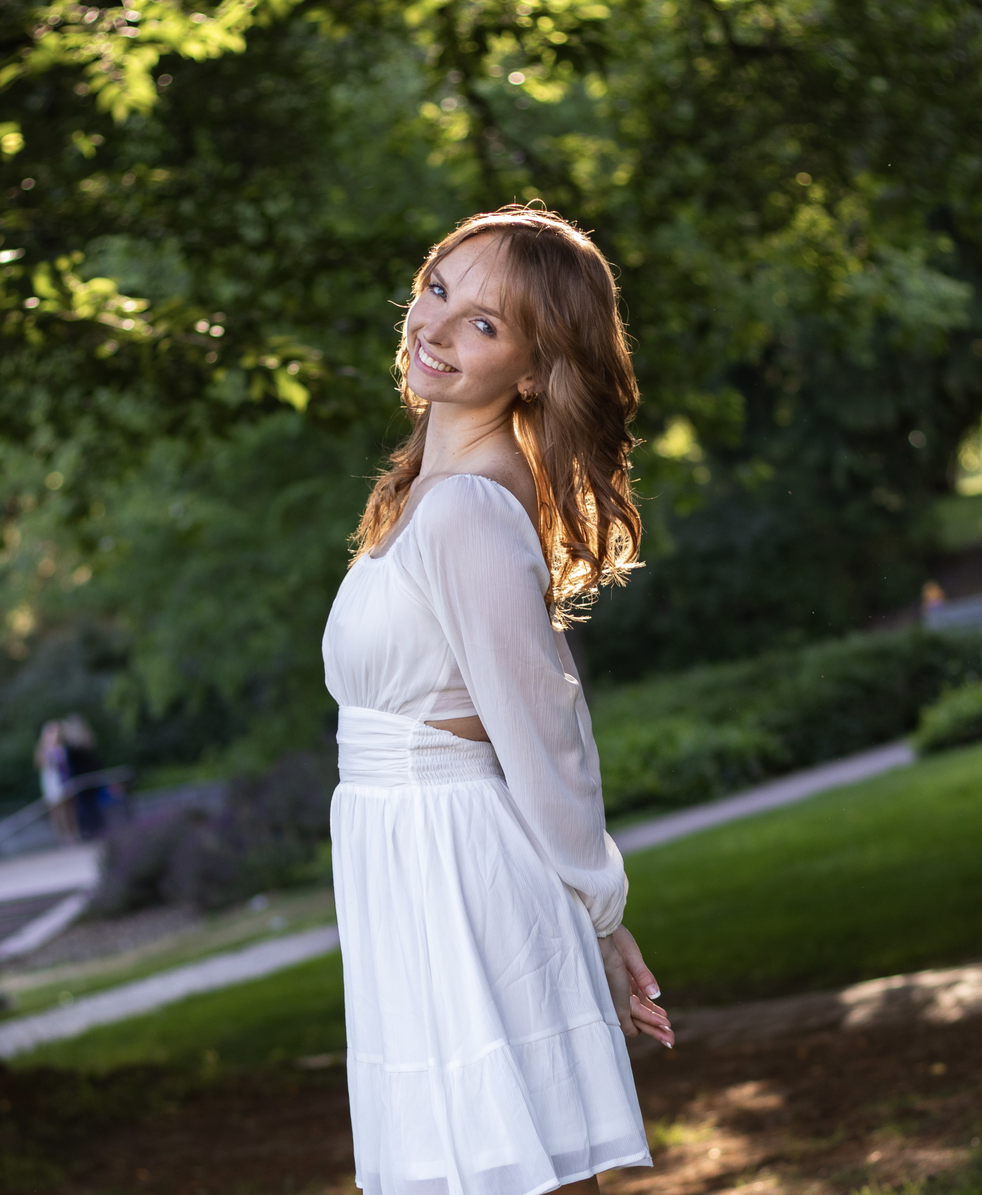
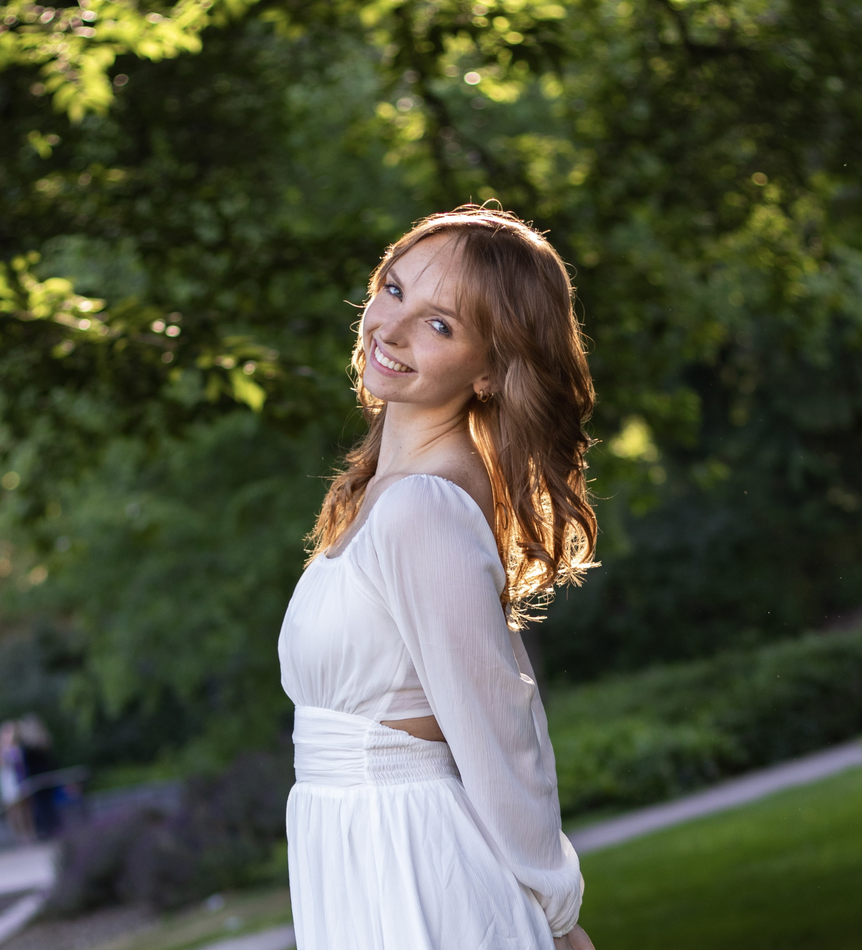
editing pictures and updating copyright

diff --git a/thanks.html b/thanks.html
@@ -79,7 +79,7 @@ text-align: center;">
         <div class="container">
             <div class="row">
                 <div class="col-md pt-4 p-0">
-                    <small class="copyright">Copyright &copy; UW Women in Informatics 2022</small>
+                    <small class="copyright">Copyright &copy; UW Women in Informatics 2023</small>
                 </div>
                 <div class="col-md mt-3 mb-3">
                     <a id="social" href="https://www.instagram.com/uwwinfo/" aria-label="Instagram" target="_blank">

diff --git a/FAQ.html b/FAQ.html
@@ -197,7 +197,7 @@
         <div class="container">
             <div class="row">
                 <div class="col-md pt-4 p-0">
-                    <small class="copyright">Copyright &copy; UW Women in Informatics 2022</small>
+                    <small class="copyright">Copyright &copy; UW Women in Informatics 2023</small>
                 </div>
                 <div class="col-md mt-3 mb-3">
                     <a id="social" href="https://www.instagram.com/uwwinfo/" aria-label="Instagram" target="_blank">

diff --git a/Hackathon.html b/Hackathon.html
@@ -296,7 +296,7 @@
         <div class="container">
             <div class="row">
                 <div class="col-md pt-4 p-0">
-                    <small class="copyright">Copyright &copy; UW Women in Informatics 2022</small>
+                    <small class="copyright">Copyright &copy; UW Women in Informatics 2023</small>
                 </div>
                 <div class="col-md mt-3 mb-3">
                     <a id="social" href="https://www.instagram.com/uwwinfo/" aria-label="Instagram" target="_blank">

diff --git a/Mentors.html b/Mentors.html
@@ -155,7 +155,7 @@
         <div class="container">
             <div class="row">
                 <div class="col-md pt-4 p-0">
-                    <small class="copyright">Copyright &copy; UW Women in Informatics 2022</small>
+                    <small class="copyright">Copyright &copy; UW Women in Informatics 2023</small>
                 </div>
                 <div class="col-md mt-3 mb-3">
                     <a id="social" href="https://www.instagram.com/uwwinfo/" aria-label="Instagram" target="_blank">

diff --git a/Volunteer.html b/Volunteer.html
@@ -162,7 +162,7 @@
         <div class="container">
             <div class="row">
                 <div class="col-md pt-4 p-0">
-                    <small class="copyright">Copyright &copy; UW Women in Informatics 2022</small>
+                    <small class="copyright">Copyright &copy; UW Women in Informatics 2023</small>
                 </div>
                 <div class="col-md mt-3 mb-3">
                     <a id="social" href="https://www.instagram.com/uwwinfo/" aria-label="Instagram" target="_blank">

diff --git a/Calendar.html b/Calendar.html
@@ -79,7 +79,7 @@
         <div class="container">
             <div class="row">
                 <div class="col pt-4 p-0">
-                    <small class="copyright">Copyright &copy; UW Women in Informatics 2022</small>
+                    <small class="copyright">Copyright &copy; UW Women in Informatics 2023</small>
                 </div>
                 <div class="col mt-3 mb-3">
                     <a id="social" href="https://www.instagram.com/uwwinfo/" aria-label="Instagram" target="_blank">

diff --git a/ContactUs.html b/ContactUs.html
@@ -114,7 +114,7 @@
     <div class="container">
         <div class="row">
             <div class="col-md pt-4 p-0">
-                <small class="copyright">Copyright &copy; UW Women in Informatics 2022</small>
+                <small class="copyright">Copyright &copy; UW Women in Informatics 2023</small>
             </div>
             <div class="col-md mt-3 mb-3">
                 <a id="social" href="https://www.instagram.com/uwwinfo/" aria-label="Instagram" target="_blank">

diff --git a/Officers.html b/Officers.html
@@ -577,7 +577,7 @@
     <div class="container">
         <div class="row">
             <div class="col-md pt-4 p-0">
-                <small class="copyright">Copyright &copy; UW Women in Informatics 2022</small>
+                <small class="copyright">Copyright &copy; UW Women in Informatics 2023</small>
             </div>
             <div class="col-md mt-3 mb-3">
                 <a id="social" href="https://www.instagram.com/uwwinfo/" aria-label="Instagram" target="_blank">

diff --git a/PastEvents.html b/PastEvents.html
@@ -145,7 +145,7 @@
     <div class="container">
         <div class="row">
             <div class="col-md pt-4 p-0">
-                <small class="copyright">Copyright &copy; UW Women in Informatics 2022</small>
+                <small class="copyright">Copyright &copy; UW Women in Informatics 2023</small>
             </div>
             <div class="col-md mt-3 mb-3">
                 <a id="social" href="https://www.instagram.com/uwwinfo/" aria-label="Instagram" target="_blank">

diff --git a/PastHackathons.html b/PastHackathons.html
@@ -517,7 +517,7 @@
     <div class="container">
         <div class="row">
             <div class="col-md pt-4 p-0">
-                <small class="copyright">Copyright &copy; UW Women in Informatics 2022</small>
+                <small class="copyright">Copyright &copy; UW Women in Informatics 2023</small>
             </div>
             <div class="col-md mt-3 mb-3">
                 <a id="social" href="https://www.instagram.com/uwwinfo/" aria-label="Instagram" target="_blank">

diff --git a/SupportUs.html b/SupportUs.html
@@ -273,7 +273,7 @@
     <div class="container">
         <div class="row">
             <div class="col-md pt-4 p-0">
-                <small class="copyright">Copyright &copy; UW Women in Informatics 2022</small>
+                <small class="copyright">Copyright &copy; UW Women in Informatics 2023</small>
             </div>
             <div class="col-md mt-3 mb-3">
                 <a id="social" href="https://www.instagram.com/uwwinfo/" aria-label="Instagram" target="_blank">

diff --git a/index.html b/index.html
@@ -249,7 +249,7 @@
     <div class="container">
         <div class="row">
             <div class="col-md pt-4 p-0">
-                <small class="copyright">Copyright &copy; UW Women in Informatics 2022</small>
+                <small class="copyright">Copyright &copy; UW Women in Informatics 2023</small>
             </div>
             <div class="col-md mt-3 mb-3">
                 <a id="social" href="https://www.instagram.com/uwwinfo/" aria-label="Instagram" target="_blank">
